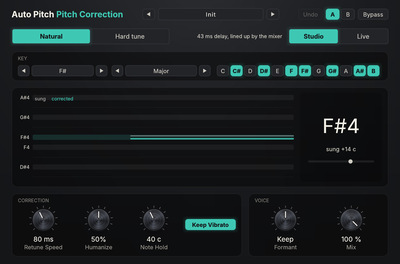
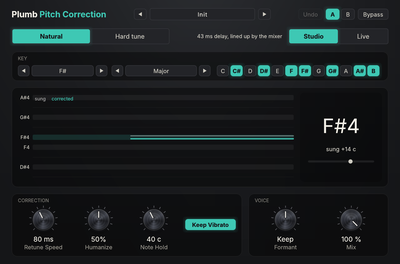
Rename the pitch corrector Auto Pitch to Plumb
Everything the user sees now says Plumb: the effects lists and browser
card (thumbnail re-rendered), the editor title (Plumb + Pitch Correction),
the slot name, tooltips, Remote Mix, Scout's starting prompt and the guide
(docs/auto-pitch.md is now docs/plumb.md). The stable id stays `autopitch`,
so sessions and user presets saved in test builds load and play unchanged.
The plug-in search (insert menu and browser) now also matches a built-in's
subtitle, so "pitch correction" finds Plumb.

Claude-Session: https://claude.ai/code/session_01ToH89FfqV1pC29pX3TCzq6

diff --git a/crates/ui-egui/tests/plumb_rename.rs b/crates/ui-egui/tests/plumb_rename.rs
@@ -1,0 +1,60 @@
+//! Plumb, the real-time pitch corrector, was called Auto Pitch in test builds. Sessions and user
+//! presets store its id (`autopitch`, unchanged), never its name: one saved then opens, keeps its
+//! settings and preset, and shows as Plumb.
+mod editor_support;
+
+use editor_support::{add, app_with_tracks, harness};
+use egui::vec2;
+use egui_kittest::kittest::Queryable;
+use serde_json::json;
+use soundcraft_ui_egui::browser::catalog::build_catalog;
+use soundcraft_ui_egui::browser::presets::presets_for;
+
+#[test]
+fn a_session_and_a_preset_saved_as_auto_pitch_open_as_plumb() {
+    let dir = std::env::temp_dir().join(format!("sc-plumb-rename-{}", std::process::id()));
+    let _ = std::fs::remove_dir_all(&dir);
+    std::fs::create_dir_all(dir.join("presets").join("autopitch")).unwrap();
+
+    // A session with the module on "Voice", Hard tune, its preset name shown.
+    let mut before = app_with_tracks(&["Voice"]);
+    let (t, m) = add(&mut before, "Voice", "autopitch");
+    before
+        .engine
+        .execute("mix.module_params", &json!({"track": t.0, "module": m.0, "params": {"style": 2.0, "retune": 7.0}, "preset": "Hard"}))
+        .unwrap();
+    let path = dir.join(format!("old.{}", soundcraft_model::SESSION_EXTENSION));
+    soundcraft_engine::io::save_session(&mut before.engine, path.to_str().unwrap()).unwrap();
+    let saved = std::fs::read_to_string(&path).unwrap();
+    assert!(saved.contains("\"autopitch\"") && !saved.contains("Plumb"), "the file stores the id, not the name");
+
+    // A user preset saved from the old editor (its own name is the user's and stays).
+    let preset =
+        json!({"format": "soundcraft-plugin-preset", "plugin": "autopitch", "name": "My Auto Pitch", "tags": "", "params": {"retune": 12.0}});
+    std::fs::write(dir.join("presets").join("autopitch").join("My Auto Pitch.json"), preset.to_string()).unwrap();
+
+    // Opened again in a fresh app.
+    let mut app = app_with_tracks(&[]);
+    soundcraft_engine::io::open_session(&mut app.engine, path.to_str().unwrap()).unwrap();
+    app.preset_dir = Some(dir.join("presets"));
+    let ins = app.engine.session().track_by_name("Voice").unwrap().mixer.inserts[0].clone();
+    assert_eq!((ins.plugin.as_str(), ins.preset.as_str()), ("autopitch", "Hard"));
+    assert_eq!((ins.params["style"], ins.params["retune"]), (2.0, 7.0));
+    let info = soundcraft_dsp::plugin_info(&ins.plugin).unwrap();
+    assert_eq!((info.name, info.short_name), ("Plumb", "Plumb"));
+    assert_eq!(soundcraft_ui_egui::plugin_titles::titled(info), "Plumb - Pitch Correction");
+    assert!(soundcraft_dsp::create(&ins.plugin).is_some(), "it is made, so it plays");
+
+    // The user preset is still listed for it.
+    let catalog = build_catalog(soundcraft_dsp::plugins(), &[], &[], &[], Vec::new());
+    let card = catalog.items.iter().find(|i| i.id == "autopitch").unwrap().clone();
+    assert_eq!(card.name, "Plumb");
+    assert!(presets_for(&app, &card).iter().any(|(_, name, _)| name == "My Auto Pitch"));
+
+    // The Mix window's tile says Plumb.
+    let h = harness(app, vec2(1400.0, 900.0), "dark");
+    assert!(h.query_by_label("Plumb module").is_some(), "the insert tile is labelled Plumb");
+    assert!(h.query_by_label_contains("Auto Pitch").is_none() && h.query_by_label_contains("AutoPtch").is_none());
+    drop(h);
+    let _ = std::fs::remove_dir_all(&dir);
+}

diff --git a/crates/ui-egui/src/mix_window.rs b/crates/ui-egui/src/mix_window.rs
@@ -1431,8 +1431,9 @@ pub fn picker_groups(instruments: bool) -> Vec<(String, Vec<&'static soundcraft_
 }
 
 /// How well a plugin name answers a search (`query` lower-case), lower first: the exact name,
-/// then a name that starts with it, then a word that does, then anywhere in it; on a tie the
-/// FireStation engines before SoundCraft's own. `None`: no match.
+/// then a name that starts with it, then a word that does, then anywhere in it, then anywhere in
+/// its subtitle ("pitch correction" finds Plumb); on a tie the FireStation engines before
+/// SoundCraft's own. `None`: no match.
 pub fn search_rank(query: &str, p: &soundcraft_dsp::PluginInfo) -> Option<(u8, u8)> {
     let name = p.name.to_lowercase();
     let tier = if name == query {
@@ -1443,6 +1444,8 @@ pub fn search_rank(query: &str, p: &soundcraft_dsp::PluginInfo) -> Option<(u8, u
         2
     } else if name.contains(query) {
         3
+    } else if crate::plugin_titles::subtitle(p.id).to_lowercase().contains(query) {
+        4
     } else {
         return None;
     };
@@ -2688,7 +2691,11 @@ mod tests {
         let ids = |q: &str| super::ranked_built_ins(q, false).iter().map(|p| p.id).collect::<Vec<_>>();
         // "comp": FireStation's Comp; the hidden stock Compressor is not offered.
         assert_eq!(ids("comp"), ["fs_comp"]);
-        assert!(ids("compressor").is_empty() && ids("reverb").iter().all(|i| i.starts_with("fs_")));
+        // "compressor" and "reverb" find the modules whose subtitle says so, never the hidden
+        // stock Compressor, Room Reverb or Plate Reverb.
+        assert_eq!(ids("compressor"), ["fs_comp"], "by its subtitle, Multi-Style Compressor");
+        let reverbs = ids("reverb");
+        assert!(!reverbs.is_empty() && reverbs.iter().all(|i| i.starts_with("fs_") || *i == "vault"), "{reverbs:?}");
         // A prefix tie: the FireStation engines first, then by name.
         let c = ids("c");
         assert_eq!(c[..3], ["fs_chamber", "fs_cleanq", "fs_comp"]);
@@ -2699,6 +2706,11 @@ mod tests {
         let strip = soundcraft_dsp::plugin_info("channel_strip").unwrap();
         assert_eq!(super::search_rank("strip", strip), Some((2, 1)));
         assert_eq!(super::search_rank("trip", strip), Some((3, 1)));
+        // A subtitle answers after every name: Plumb is found by what it does.
+        assert_eq!(ids("plumb"), ["autopitch"]);
+        assert_eq!(ids("pitch correction"), ["autopitch"]);
+        let plumb = soundcraft_dsp::plugin_info("autopitch").unwrap();
+        assert_eq!(super::search_rank("correction", plumb), Some((4, 0)));
     }
 
     #[test]

diff --git a/crates/mix/src/song_keys.rs b/crates/mix/src/song_keys.rs
@@ -1,4 +1,4 @@
-//! The song's key for audio effects that follow it (Auto Pitch): the Key ruler with its key
+//! The song's key for audio effects that follow it (Plumb): the Key ruler with its key
 //! changes by timeline position, worked out off the audio thread and handed to each insert that
 //! asks ([`soundcraft_dsp::Plugin::follows_song_key`]) when the mix syncs the session, as the
 //! chord lane is handed to the MIDI Scale effect ([`crate::midi_fx::chord_table`]). The plugin
@@ -115,7 +115,7 @@ mod tests {
     #[test]
     fn the_mixer_lines_auto_pitch_up_with_the_other_tracks_and_its_bypass_too() {
         // The same noise (let through untouched, only delayed) on two tracks panned apart, one
-        // through Auto Pitch: with delay compensation the two sides are identical, bypassed or
+        // through Plumb: with delay compensation the two sides are identical, bypassed or
         // not. A voice at Mix 0 % likewise.
         for (x, set) in [(noise(48_000), vec![]), (tone(1.0, 5660.0), vec![("style", 1.0), ("mix", 0.0)])] {
             let mut s = Session::default();
@@ -145,6 +145,19 @@ mod tests {
         let b = &back.track(t).unwrap().mixer.inserts[0];
         assert_eq!(a.params, b.params);
         assert_eq!(b.plugin, "autopitch");
+    }
+
+    #[test]
+    fn a_module_saved_while_plumb_was_called_auto_pitch_still_plays() {
+        // As a test build wrote it: the id, never the name. It loads, is Plumb, and corrects.
+        let saved = r#"{"id":1,"plugin":"autopitch","params":{"style":1.0,"key":1.0},"bypass":false,"active":true,"preset":"Hard"}"#;
+        let ins: Insert = serde_json::from_str(saved).unwrap();
+        assert_eq!(soundcraft_dsp::plugin_info(&ins.plugin).map(|i| i.name), Some("Plumb"));
+        let mut s = Session::default();
+        track(&mut s, 900, &tone(1.0, 5660.0), 0.0, &[ins]);
+        let out = render_range(&s, Range::new(0, 48_000), 512);
+        let got = pitch(&out[0], 0.4, 0.9);
+        assert!((got - 5700.0).abs() < 3.0, "40 c flat pulled onto A: {got}");
     }
 
     #[test]

diff --git a/crates/ui-egui/src/editors/autopitch.rs b/crates/ui-egui/src/editors/autopitch.rs
@@ -1,4 +1,4 @@
-//! Auto Pitch's editor: FreeDAWm's own design, built on [`crate::editor_kit`] in the Engine
+//! Plumb's editor: FreeDAWm's own design, built on [`crate::editor_kit`] in the Engine
 //! family's look.
 //!
 //! - The header: the title, the preset strip (Gentle, Medium, Hard), the editor's Undo and A/B, and
@@ -47,7 +47,7 @@ const NOTE_W: f32 = 168.0;
 /// The editor's size.
 pub const SIZE: Vec2 = vec2(760.0, HEIGHT);
 
-/// Auto Pitch's accent: a clear teal.
+/// Plumb's accent: a clear teal.
 pub const ACCENT: u32 = 0xFF3E_C8B4;
 pub const PALETTE: VstPalette = VstPalette::engine_look(argb(ACCENT));
 
@@ -220,7 +220,7 @@ fn plain() -> PillLook {
 
 fn header_ui(st: &mut Editor, app: &mut SoundApp, ui: &mut Ui, host: &Host, header: Rect) {
     let pal = &PALETTE;
-    let title_w = paint_title(ui.painter(), header, "Auto Pitch", "Pitch Correction", pal);
+    let title_w = paint_title(ui.painter(), header, "Plumb", "Pitch Correction", pal);
     let h = pill_height(PillStyle::Small);
     let at = |right: f32, w: f32| Rect::from_min_size(pos2(right - w, header.center().y - h * 0.5), vec2(w, h));
     let bypass = at(header.right(), 58.0);
@@ -246,7 +246,7 @@ fn header_ui(st: &mut Editor, app: &mut SoundApp, ui: &mut Ui, host: &Host, head
             app.ui.status = e;
         }
     }
-    let _ = resp.on_hover_text("Take Auto Pitch out of the signal (the voice still comes out delayed alike, so nothing moves in time).");
+    let _ = resp.on_hover_text("Take Plumb out of the signal (the voice still comes out delayed alike, so nothing moves in time).");
     let free = Rect::from_min_max(pos2(header.left() + title_w + 16.0, header.top()), pos2(undo.left() - 16.0, header.bottom()));
     let name_w = (free.width() - 60.0).clamp(100.0, 200.0);
     let strip = Rect::from_center_size(free.center(), vec2(name_w + 60.0, h + 2.0));

diff --git a/crates/dsp/src/lib.rs b/crates/dsp/src/lib.rs
@@ -217,7 +217,7 @@ pub const HIDDEN_STOCK: &[Category] =
 /// FreeDAWm's own designs with an editor of their own, which no FireStation engine covers. One in
 /// a [`HIDDEN_STOCK`] category (Rez, Lull, Vault) is shown all the same. (Vault's editor is the
 /// drawer with its response picker, for now, and Mend's the drawer with its model's status.) Keel,
-/// the bass amp, is offered beside Amp, and Heft, the bass enhancer; Auto Pitch, the pitch corrector,
+/// the bass amp, is offered beside Amp, and Heft, the bass enhancer; Plumb, the pitch corrector,
 /// beside Mend.
 pub const LISTED_STOCK: &[&str] = &["rez", "lull", "sprawl", "vault", "mend", "keel", "heft", "autopitch"];
 
@@ -414,7 +414,7 @@ pub trait Plugin: Send {
     fn latency(&self) -> usize {
         0
     }
-    /// Whether the plugin is made to be heard live at its current latency (Auto Pitch's Live
+    /// Whether the plugin is made to be heard live at its current latency (Plumb's Live
     /// mode): Low Latency Monitoring then keeps it in on an armed or monitored track, where it
     /// takes out every other insert that reports a delay, as long as that delay is at most
     /// [`LIVE_MONITORING_MAX_MS`]. False by default. Must not allocate.

diff --git a/crates/vocal/tests/autopitch_fixtures/mod.rs b/crates/vocal/tests/autopitch_fixtures/mod.rs
@@ -1,5 +1,5 @@
 //! The real-time pitch-correction study's synthetic fixtures and measures, run through the real
-//! Auto Pitch module (`soundcraft_dsp`'s `autopitch`) block by block: generated sung vowels with
+//! Plumb module (`soundcraft_dsp`'s `autopitch`) block by block: generated sung vowels with
 //! known answers (no recordings), note-level scores by the Vocal Editor's own tracker, period
 //! shape and formants as `tuning_quality.rs` measures them, stereo coherence.
 #![allow(dead_code, clippy::type_complexity, clippy::needless_range_loop)]
@@ -294,7 +294,7 @@ pub struct Est {
     pub target: Option<f64>,
 }
 
-/// Runs `x` through Auto Pitch with `set` (and the key: own C major unless `set` says) in blocks
+/// Runs `x` through Plumb with `set` (and the key: own C major unless `set` says) in blocks
 /// of `block`; returns the output aligned to the input (latency removed), the decisions (one per
 /// 128-sample block when `block` is 128), the latency and the CPU seconds.
 pub fn run_with(x: &[Vec<f32>], set: &[(&str, f32)], block: usize, sr: f32) -> (Vec<Vec<f32>>, Vec<Est>, usize, f64) {

diff --git a/crates/mix/src/lib.rs b/crates/mix/src/lib.rs
@@ -2177,7 +2177,7 @@ impl MixEngine {
             }
             let rate = s.sample_rate.hz();
             let lfe = lfe_mask(strip_format(t, ch));
-            // Effects that follow the song's key (Auto Pitch): the Key ruler as it is now.
+            // Effects that follow the song's key (Plumb): the Key ruler as it is now.
             let keys = chain.iter().flatten().any(|p| p.plugin.follows_song_key()).then(|| song_keys::song_key_table(s));
             for (slot, ins) in chain.iter_mut().zip(&t.mixer.inserts) {
                 if let Some(slot) = slot.as_mut() {
@@ -3503,7 +3503,7 @@ fn insert_step(
     xf: usize,
 ) -> (LlmRun, bool) {
     let lat = slot.plugin.latency();
-    // A module made to be heard live (Auto Pitch's Live mode) at a small enough delay stays in.
+    // A module made to be heard live (Plumb's Live mode) at a small enough delay stays in.
     let live = lat > 0 && lat <= slot.live_max && slot.plugin.live_monitoring();
     let run = llm_step(slot, bypass || (llm && lat > 0 && !live), xf);
     let delayed = lat > 0 || slot.dry.delay() > 0;

diff --git a/crates/mix/tests/low_latency_monitoring.rs b/crates/mix/tests/low_latency_monitoring.rs
@@ -433,7 +433,7 @@ fn a_track_feeding_a_live_group_through_an_off_path_aux_stays_aligned() {
     assert_eq!(hits(&out), vec![400, 1100], "T waits for the returns as Q does");
 }
 
-/// Auto Pitch on `track` in `mode` (0 Studio, 1 Live; Live at the Middle voice range).
+/// Plumb on `track` in `mode` (0 Studio, 1 Live; Live at the Middle voice range).
 fn auto_pitch(s: &mut Session, track: TrackId, mode: f32) -> soundcraft_model::ModuleId {
     let mut ins = soundcraft_model::Insert::new("autopitch");
     ins.params.insert("mode".into(), mode);
@@ -472,7 +472,7 @@ fn llm_keeps_auto_pitch_in_live_mode_and_the_singer_hears_its_few_ms() {
 
 #[test]
 fn switching_auto_pitch_to_live_realigns_the_mix() {
-    // Two playback tracks with the same click, one through Auto Pitch, panned apart: they line up
+    // Two playback tracks with the same click, one through Plumb, panned apart: they line up
     // in Studio mode (2048 samples compensated) and again after a switch to Live mid-play (288).
     let click = |at: usize| {
         let mut v = vec![0.0f32; 48_000];

diff --git a/crates/ui-egui/src/browser/catalog.rs b/crates/ui-egui/src/browser/catalog.rs
@@ -330,7 +330,8 @@ pub fn build_catalog(
 }
 
 /// The indices into `items` the panel shows for `q`. A category override (by plugin id) replaces
-/// the plugin's own category for the category chip and the text search. With the Recent chip
+/// the plugin's own category for the category chip and the text search, which also reads a
+/// built-in's subtitle ("pitch correction" finds Plumb). With the Recent chip
 /// the order is `recent`'s (newest first); otherwise favourites come first, then by name.
 pub fn filter(
     items: &[BrowserItem],
@@ -355,7 +356,8 @@ pub fn filter(
                 && (text.is_empty()
                     || it.name.to_lowercase().contains(&text)
                     || it.vendor.to_lowercase().contains(&text)
-                    || category.label().to_lowercase().contains(&text))
+                    || category.label().to_lowercase().contains(&text)
+                    || crate::plugin_titles::subtitle(&it.id).to_lowercase().contains(&text))
         })
         .map(|(i, _)| i)
         .collect();

diff --git a/crates/dsp/src/plugins/autopitch.rs b/crates/dsp/src/plugins/autopitch.rs
@@ -1,5 +1,7 @@
-//! Auto Pitch: real-time pitch correction for a recorded voice (one voice at a time). FreeDAWm's
-//! own design, from the feasibility study's prototype.
+//! Plumb (real-time pitch correction, id `autopitch`): pulls a recorded or live voice onto the
+//! key, one voice at a time. FreeDAWm's own design, from the feasibility study's prototype. It was
+//! called Plumb in test builds; the id stays `autopitch`, so sessions and user presets saved
+//! with it load unchanged.
 //!
 //! - **Detect** ([`detect`]): the pitch of the mono sum, every detection hop (about 2.7 ms), from
 //!   input that has arrived only.
@@ -173,8 +175,8 @@ const P_RANGE: usize = 22;
 
 pub static AUTOPITCH_INFO: PluginInfo = PluginInfo {
     id: "autopitch",
-    name: "Auto Pitch",
-    short_name: "AutoPtch",
+    name: "Plumb",
+    short_name: "Plumb",
     category: Category::Other,
     params: &AUTOPITCH_PARAMS,
     is_instrument: false,

diff --git a/crates/ui-egui/examples/plugin_thumb.rs b/crates/ui-egui/examples/plugin_thumb.rs
@@ -211,7 +211,7 @@ fn test_signal() -> [Vec<f32>; 2] {
     out
 }
 
-/// A sung-like tone for Auto Pitch: F#4 30 cents sharp with a light vibrato, two seconds, stereo.
+/// A sung-like tone for Plumb: F#4 30 cents sharp with a light vibrato, two seconds, stereo.
 fn sung_tone() -> [Vec<f32>; 2] {
     let n = (SR * 2.0) as usize;
     let mut ph = 0.0f64;
@@ -240,7 +240,7 @@ fn feed(plugin: &str, params: &Map<String, Value>, module: ModuleId, state: Opti
     if let Some(state) = state {
         p.load_state(state);
     }
-    // Auto Pitch hears a voice (a sung tone 30 cents sharp of F#4), not the drum loop.
+    // Plumb hears a voice (a sung tone 30 cents sharp of F#4), not the drum loop.
     let input = if plugin == "autopitch" { sung_tone() } else { test_signal() };
     let mut m = ModuleMeter { module, ..ModuleMeter::default() };
     // CopyQ has to hear a few seconds before it trusts what it measured.

diff --git a/crates/ui-egui/tests/browser_catalog.rs b/crates/ui-egui/tests/browser_catalog.rs
@@ -168,6 +168,21 @@ fn filter_search_and_chips() {
 }
 
 #[test]
+fn plumb_is_carded_as_plumb_and_found_by_what_it_does() {
+    let cat = build_catalog(soundcraft_dsp::plugins(), &[], &[], &[], Vec::new());
+    let card = cat.items.iter().find(|i| i.id == "autopitch").expect("Plumb is offered");
+    assert_eq!(card.name, "Plumb");
+    let none = BTreeMap::new();
+    let found =
+        |text: &str| filter(&cat.items, &Query { text: text.into(), ..query() }, &none, &[], &[]).iter().any(|&i| cat.items[i].id == "autopitch");
+    // By its name, and by its subtitle (Pitch Correction); the former name is not a search word.
+    for text in ["plumb", "PLUMB", "pitch correction", "correction"] {
+        assert!(found(text), "{text}");
+    }
+    assert!(!found("zzzz"));
+}
+
+#[test]
 fn failures_counted() {
     let clap = ClapDescriptor {
         id: "clap:com.acme.verb".into(),
